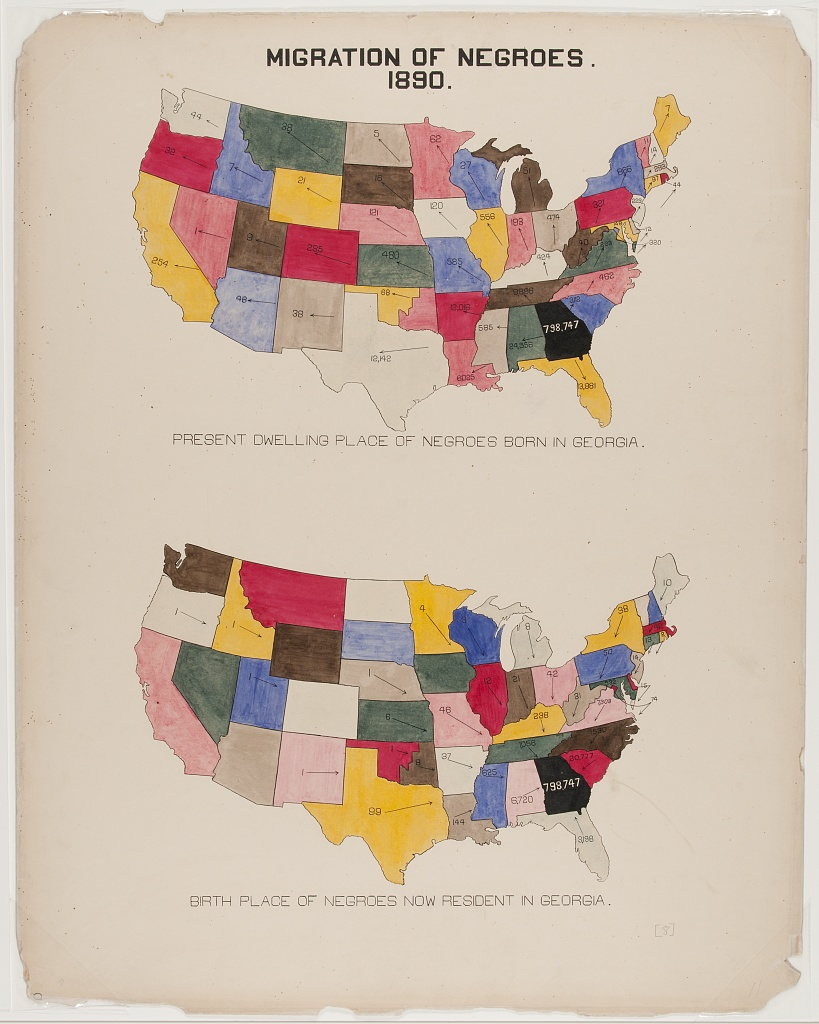
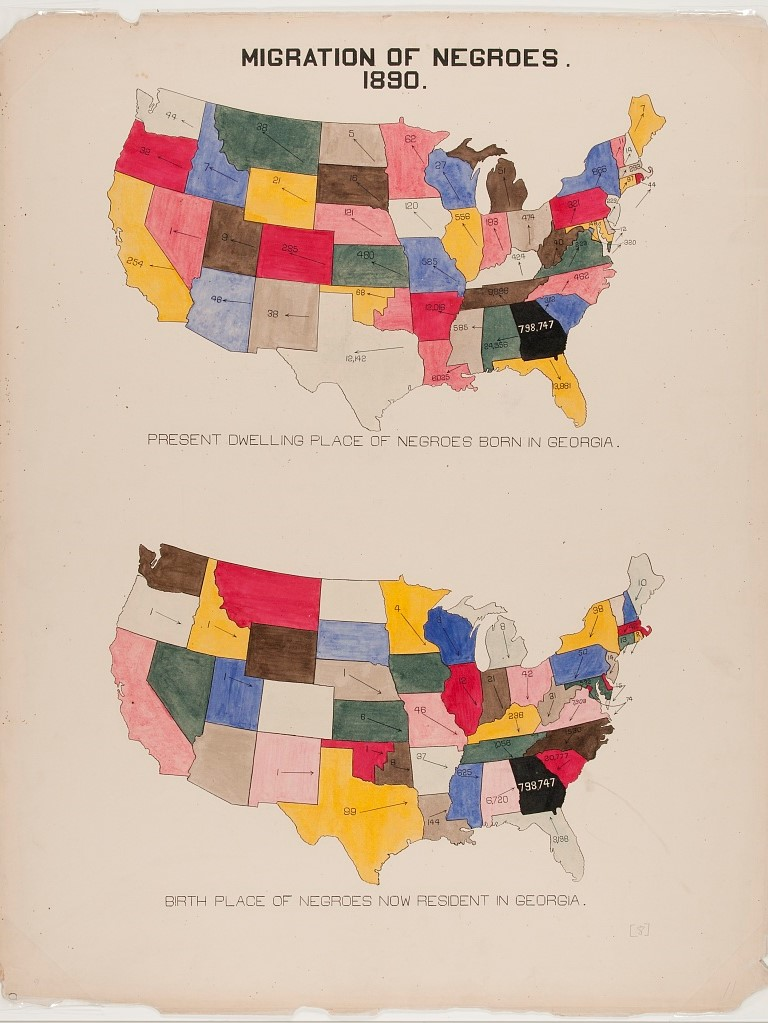
Commit challenge 09

diff --git a/README.md b/README.md
@@ -60,10 +60,15 @@ Challenge 8</h3>
 </p>
 
 <h3 align="center">
+Challenge 9</h3>
+
+<p align="center">
+<img src="https://github.com/nrennie/dubois_challenge/blob/main/images/challenge_09.jpg?raw=true" width="50%"><img src="https://github.com/nrennie/dubois_challenge/blob/main/images/original_09.jpg?raw=true" width="50%">
+</p>
+
+<h3 align="center">
 Challenge 10</h3>
 
 <p align="center">
 <img src="https://github.com/nrennie/dubois_challenge/blob/main/images/challenge_10.jpg?raw=true" width="50%"><img src="https://github.com/nrennie/dubois_challenge/blob/main/images/original_10.jpg?raw=true" width="50%">
 </p>
-
-My attempts to the remaining challenges will be uploaded soon. 
